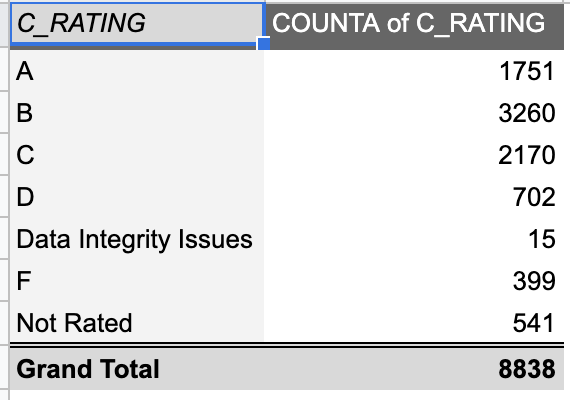
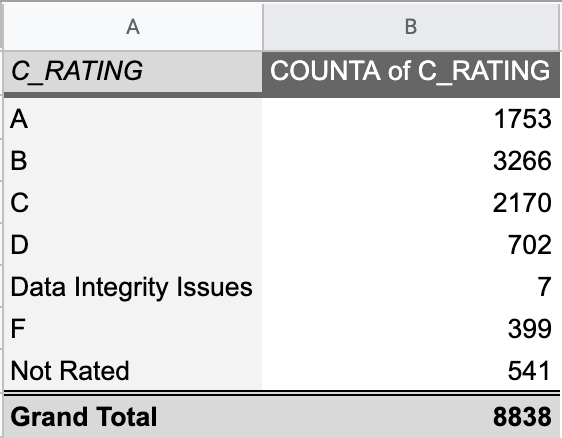
updating school ratings data

diff --git a/ed-school-ratings/rubric-gs.md b/ed-school-ratings/rubric-gs.md
@@ -2,6 +2,8 @@
 
 > See the [main README](README.md) to see how to download the data.
 
+> This was updated 2020-09-12 to reflect updated data.
+
 This assignment provides experiences with pivot tables. Consider reviewing this [Pivot Table Tutorial](https://support.google.com/docs/answer/1272900?co=GENIE.Platform%3DDesktop&hl=en) before proceeding. There are plenty of [other tutorials on YouTube](https://www.youtube.com/results?search_query=how+to+do+pivot+table+in+google+sheets&sp=EgIIBQ%253D%253D) if you want more.
 
 Pivot tables are Sheets' version of [Group and Aggregate](https://vimeo.com/showcase/7320305/video/435910349), so you might review that BDJF video.
